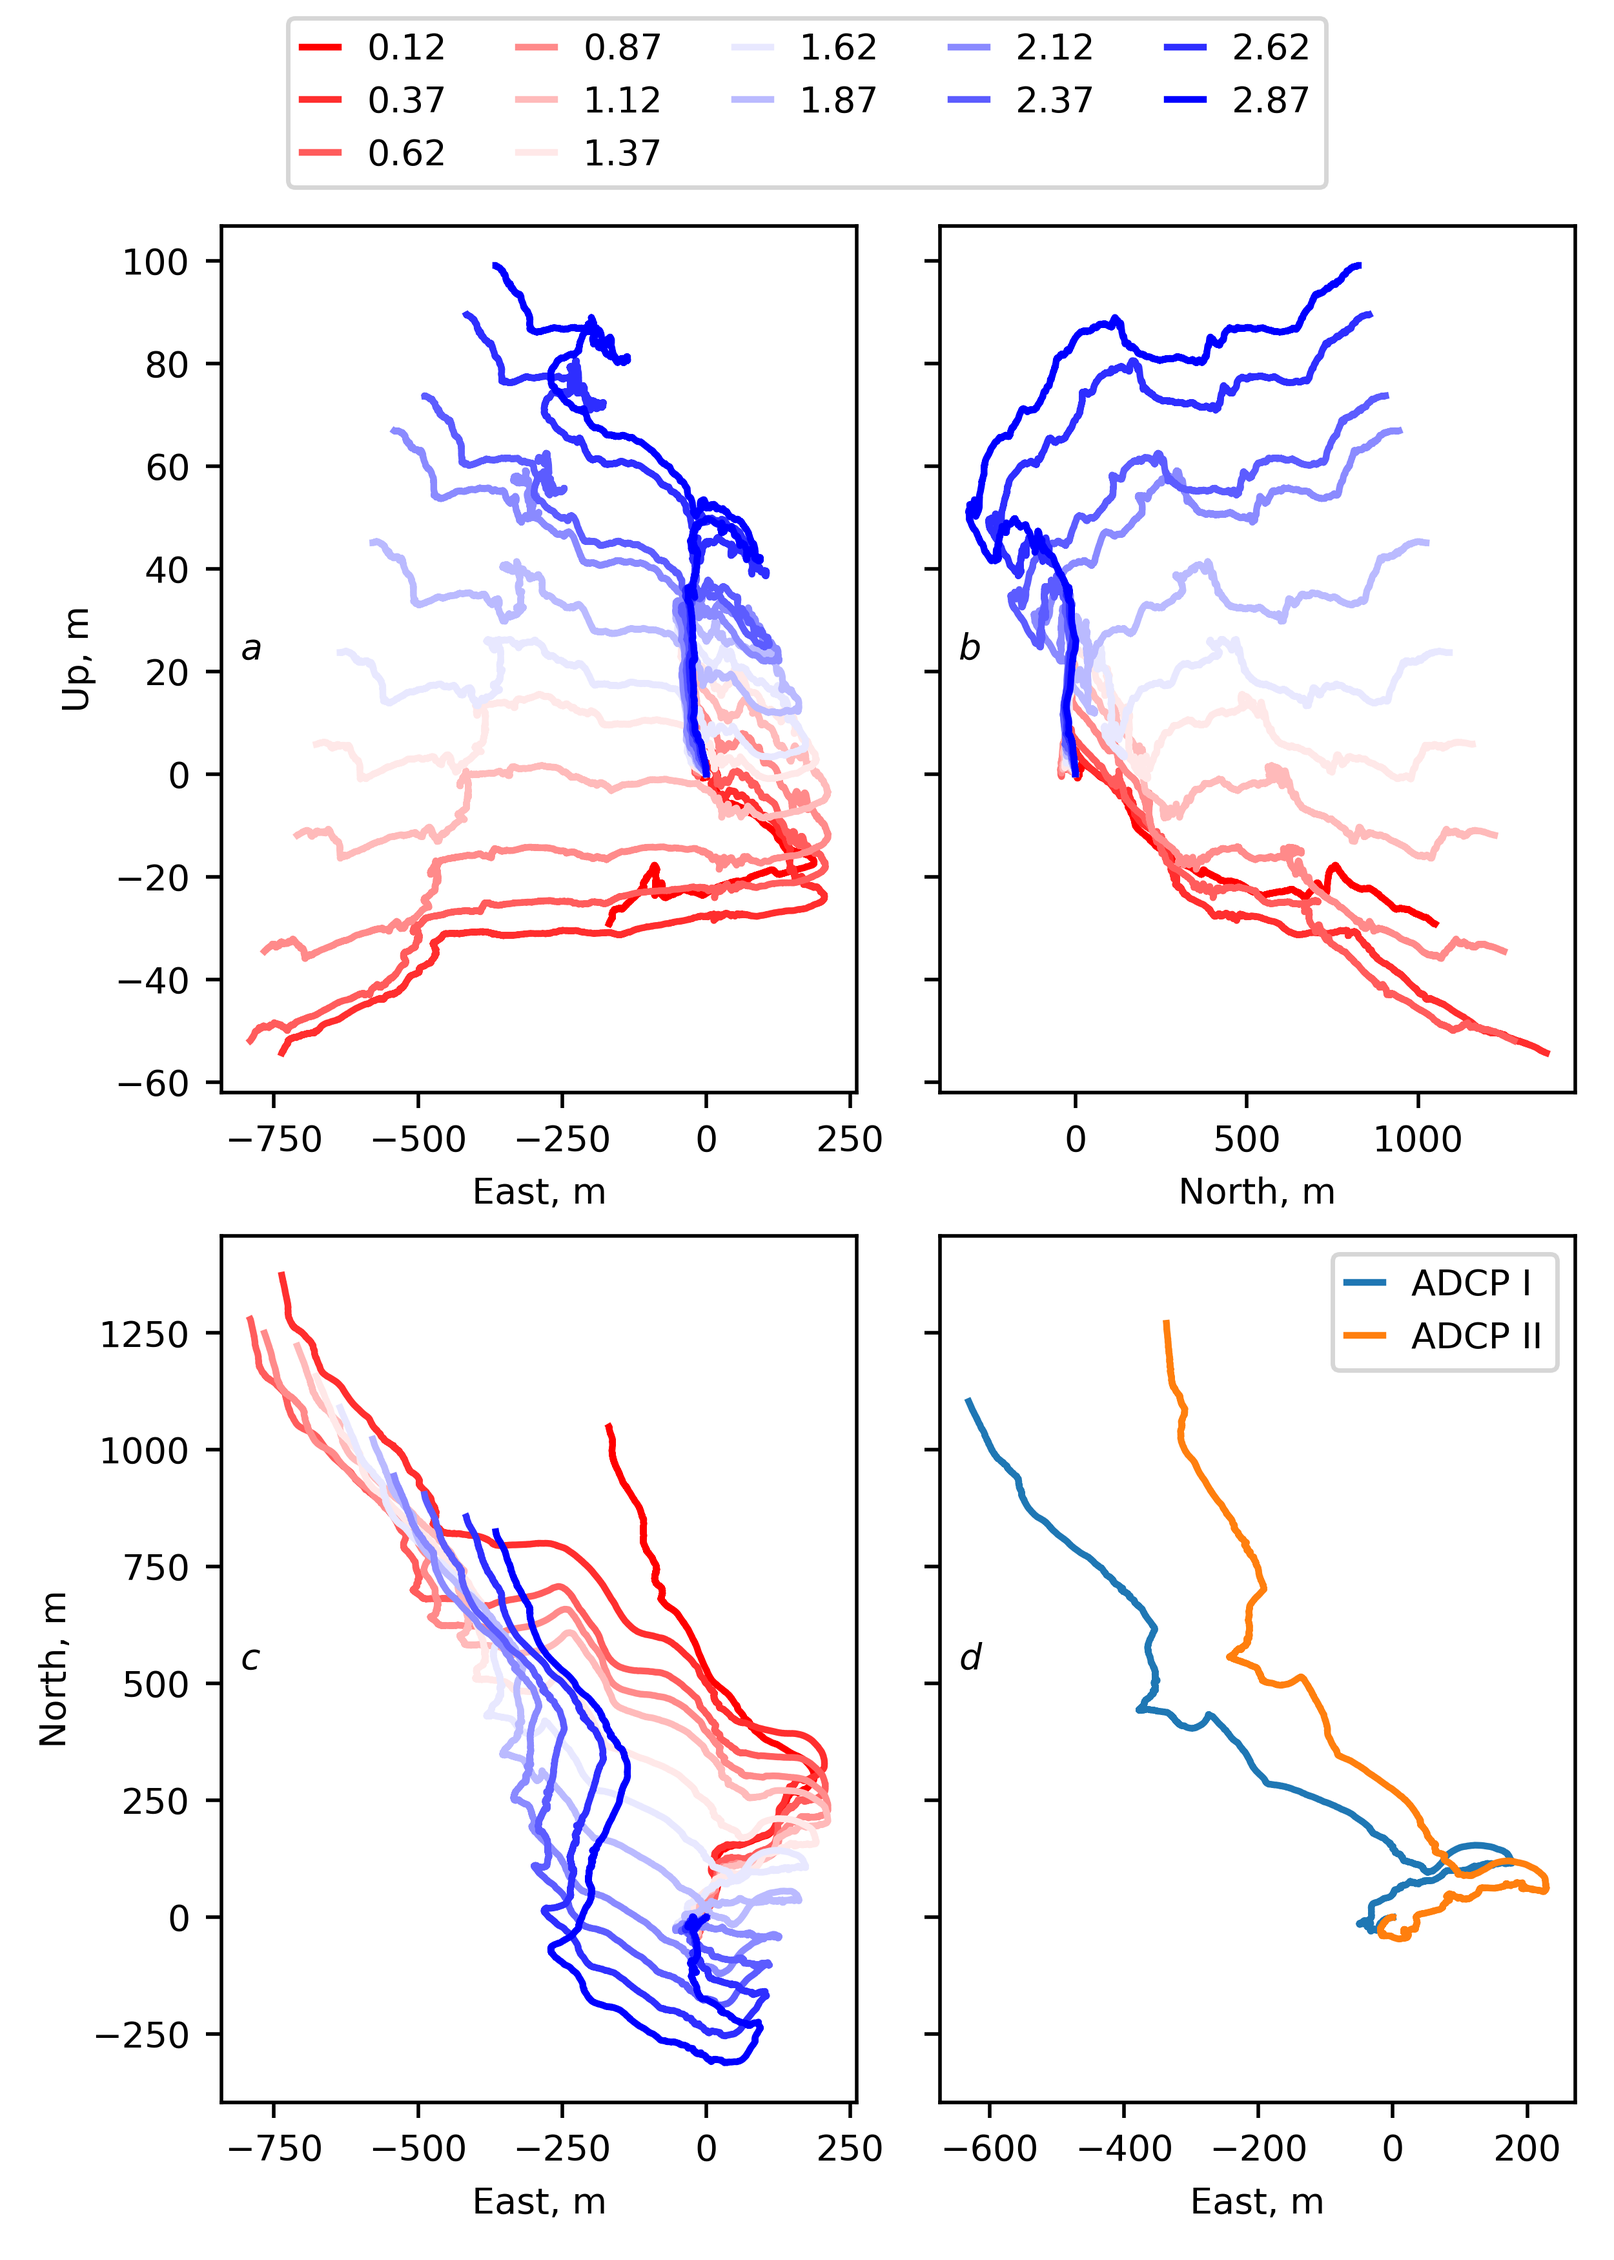
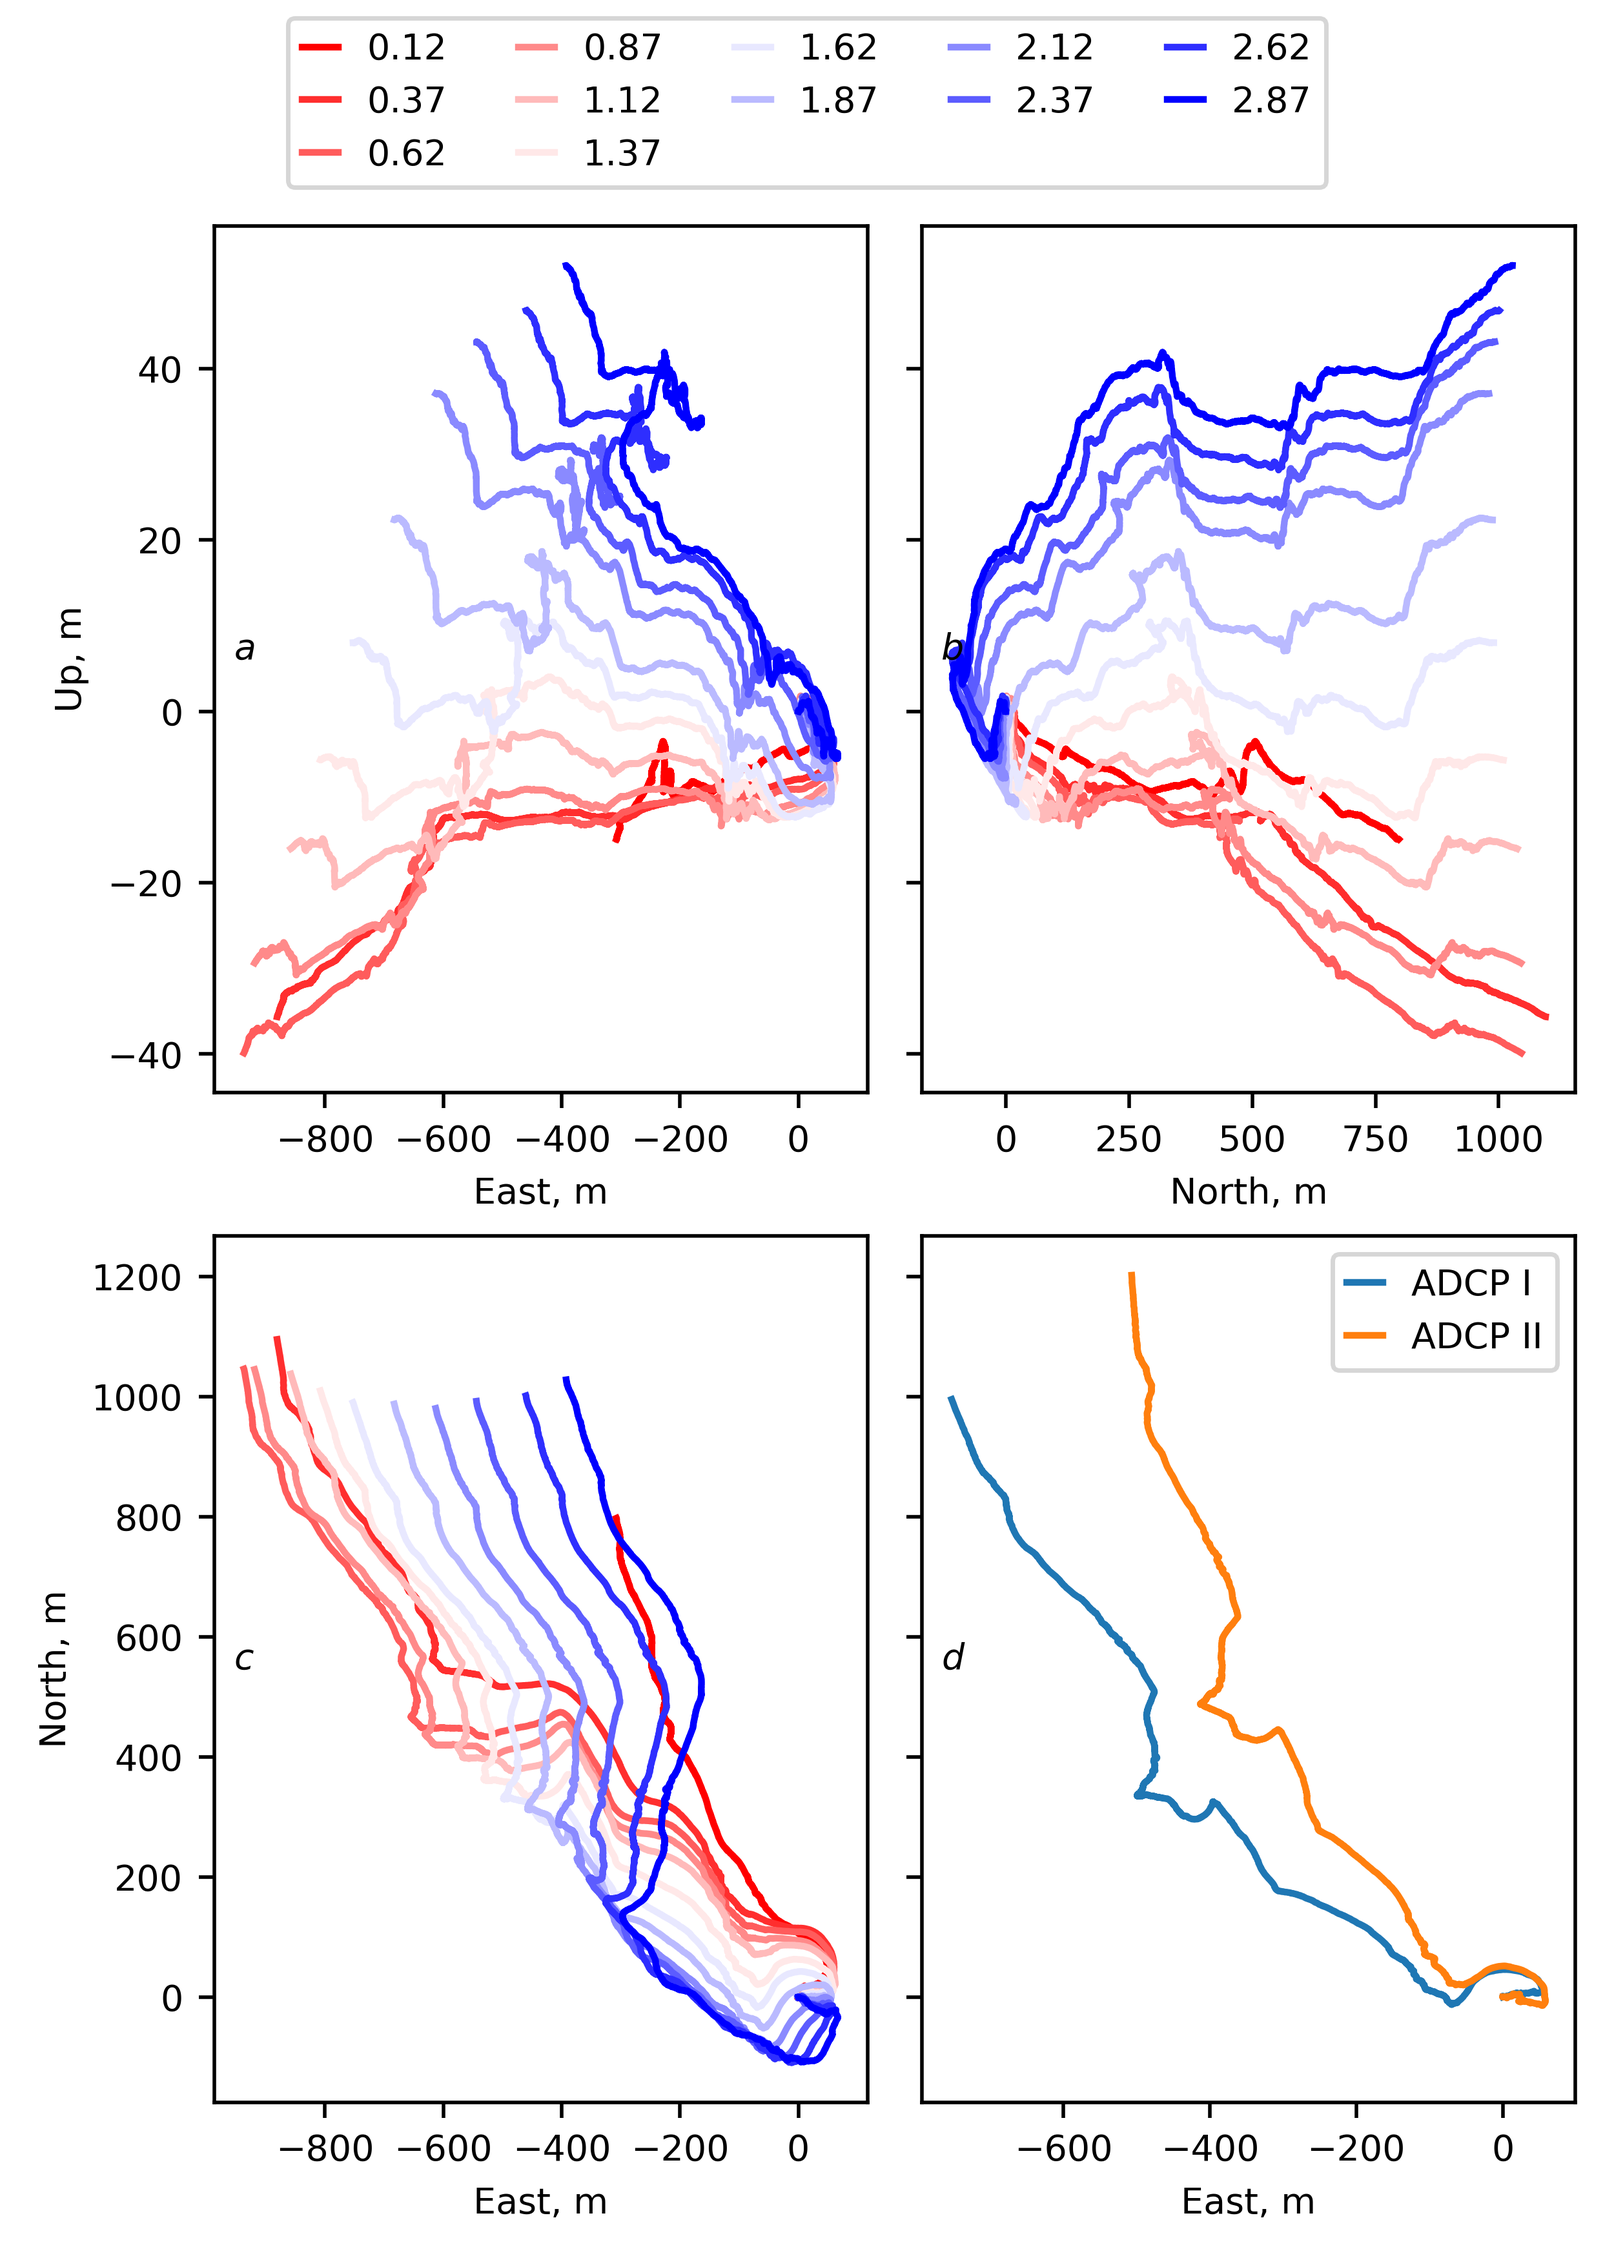
remove first deployment

diff --git a/make_plots.py b/make_plots.py
@@ -20,7 +20,7 @@ def plot_pvd(x, y, ax=None):
         ax.plot(x.loc[:, depth], y.loc[:, depth], label=f"{depth:.2f}", color=color)
 
 
-index = slice("2020-03-28", "2020-04-05")
+index = slice("2020-03-30 10:30", "2020-04-05")
 aq1 = {}
 for direction in ["East", "North", "Up"]:
     aq1[direction.lower()] = pd.read_csv(f"AQ1_EXP102.{direction}.csv", index_col=0, parse_dates=True)
